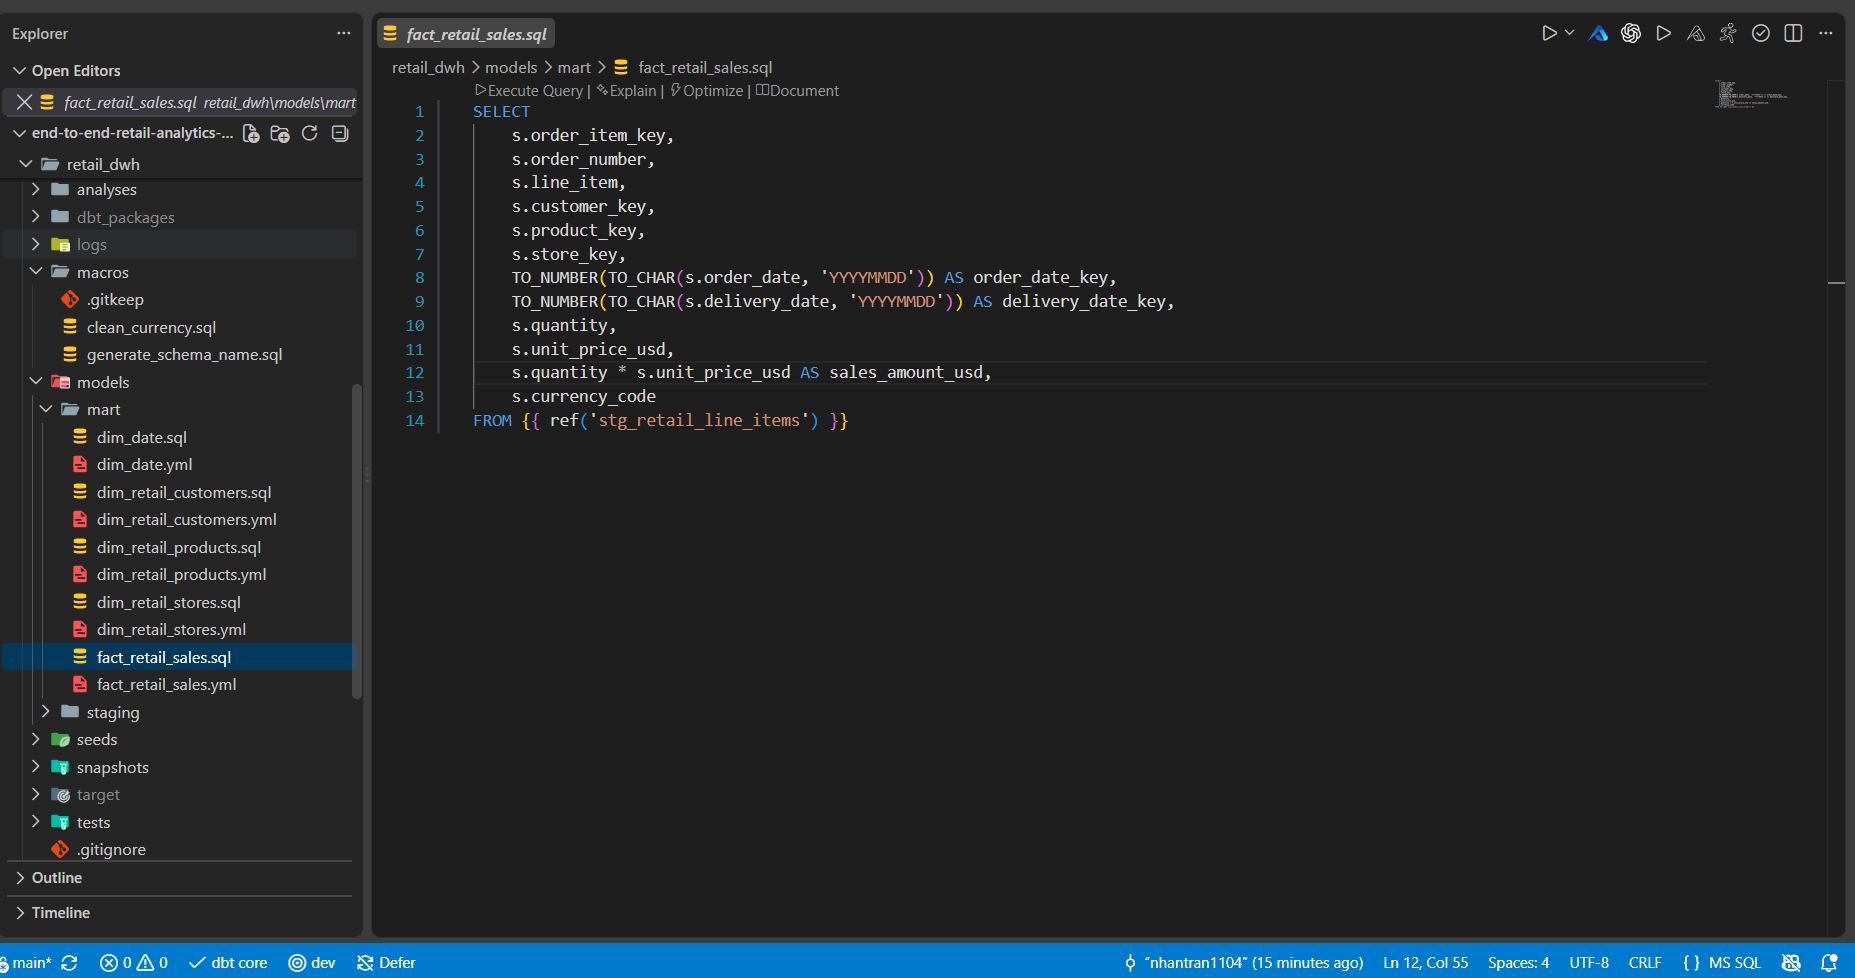
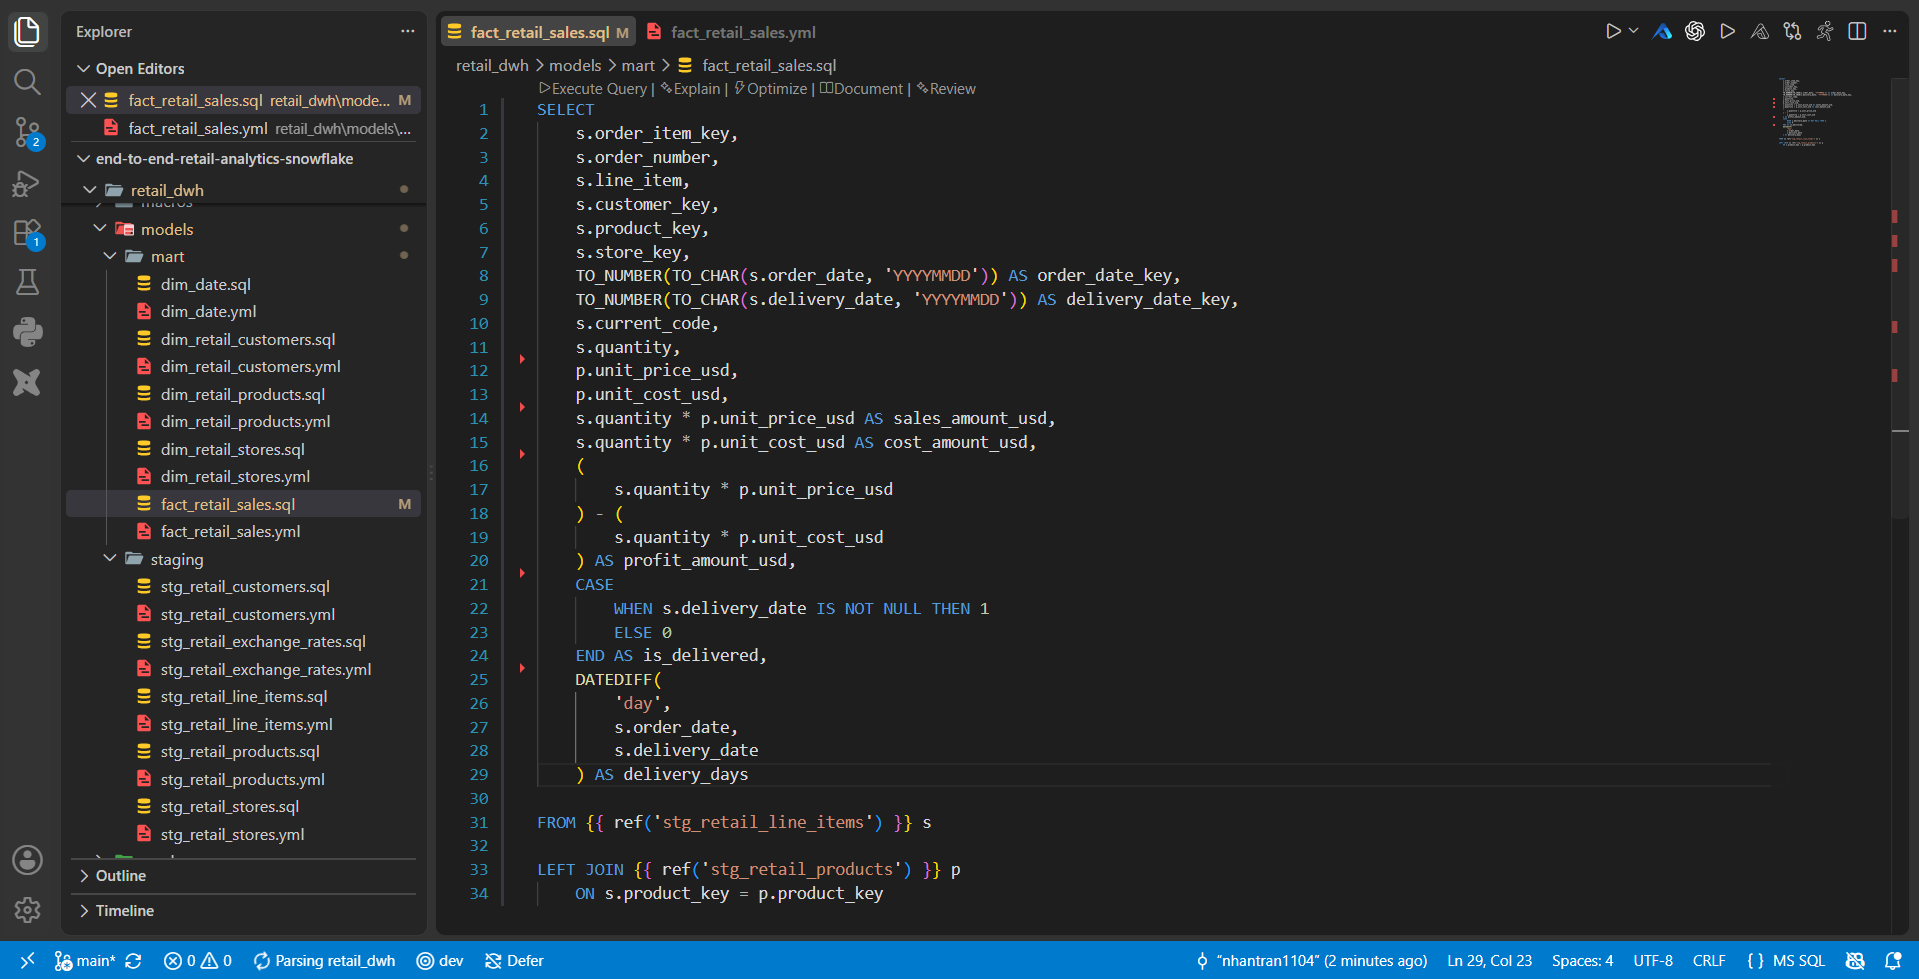
fix: correct image paths in README and update SQL query formatting in fact_retail_sales

diff --git a/README.md b/README.md
@@ -36,17 +36,17 @@ This project uses the *Global Electronics Retail Dataset* from *Maven Analytics*
 ![alt text](images/image-2.png)
 
 3. Use dbt to standardize, and validate raw data in the Staging layer.
-![alt text](images/image-4.png.png)
+![alt text](images/image-4.png)
 
 4. Build dimensional models following a Star Schema in the Mart layer.
 ![alt text](images/image-5.png)
 ![alt text](images/image-6.png)
 
 5. Configure an Airflow connection to Snowflake and Automate the ELT pipeline using Apache Airflow.
-![alt text](images/images-7.png)
-![alt text](images/images-8.png)
+![alt text](images/image-7.png)
+![alt text](images/image-8.png)
 
 6. Connect Power BI to the Snowflake Mart layer to build interactive dashboards and visualize business insights.
-![alt text](images/iamges-9.png)
+![alt text](images/image-9.png)
 
 ## Results
